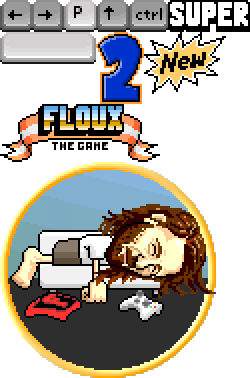
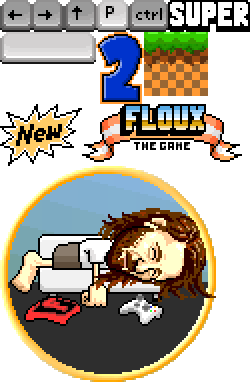
master: add ground on menu

Changed region(s): [[0.0, 0.0, 1.0, 0.9021], [0.0, 0.0582, 0.112, 0.0873], [0.644, 0.9312, 0.7, 0.9603]]

diff --git a/app/js/modules/GameMenu.js b/app/js/modules/GameMenu.js
@@ -54,6 +54,15 @@ menuGame.prototype = {
         this.cursors.up.onUp.add( this.previous, this );
         this.cursors.down.onUp.add( this.next, this );
 
+        // GROUND (like Sonic)
+        this.grounds = this.game.add.group();
+
+        var _image = new Phaser.Image( this.game, 0,0, "menu", "grass.png" );
+        this.ground = new Phaser.TileSprite( this.game, 0, this.game.height+128, this.game.width, _image.height, _image.texture );
+        this.grounds.add( this.ground );
+
+        this.game.add.tween( this.ground ).to( {y: this.game.height-64}, 2000, Phaser.Easing.Cubic.out, true, 0 );
+
         // LOGO
         this.logo = this.game.add.group();
         this.bg = new Phaser.Sprite(this.game, 0,-500, "menu", "couch.png");
@@ -83,7 +92,6 @@ menuGame.prototype = {
         this.game.add.tween( this.new.scale ).to( {x: 1, y: 1}, 600, Phaser.Easing.Back.Out, true, 2700 );
 
         this.game.add.tween( this.two ).to( {alpha: 1, x: 48}, 400, Phaser.Easing.Cubic.In, true, 3350 );
-
 
         // MAIN MENU
         this.buttons = [];
@@ -157,9 +165,7 @@ menuGame.prototype = {
 
         this.returnBtn.input.enabled = false;
 
-        setTimeout( function() {
-            $('#about').trigger('state:created');
-        }, 250);
+        $('#about').trigger('state:created');
     },
 
     /**
@@ -184,7 +190,8 @@ menuGame.prototype = {
     // Phaser.Game.State interface
     update: function()
     {
-
+        //  Scroll the ground
+        this.ground.tilePosition.x -= 5;
     },
 
     /**
@@ -287,6 +294,8 @@ menuGame.prototype = {
         this.logo.y = _margin + 236;
 
         this.ctrlMap.y = this.help.y = this.mainMenu.y = this.logo.y + _margin;
+
+        this.ground.y = this.game.height - 64;
     },
 
     // Phaser.Game.State interface

diff --git a/app/js/build.js b/app/js/build.js
@@ -742,6 +742,15 @@ menuGame.prototype = {
         this.cursors.up.onUp.add(this.previous, this);
         this.cursors.down.onUp.add(this.next, this);
 
+        // GROUND (like Sonic)
+        this.grounds = this.game.add.group();
+
+        var _image = new Phaser.Image(this.game, 0, 0, "menu", "grass.png");
+        this.ground = new Phaser.TileSprite(this.game, 0, this.game.height + 128, this.game.width, _image.height, _image.texture);
+        this.grounds.add(this.ground);
+
+        this.game.add.tween(this.ground).to({ y: this.game.height - 64 }, 2000, Phaser.Easing.Cubic.out, true, 0);
+
         // LOGO
         this.logo = this.game.add.group();
         this.bg = new Phaser.Sprite(this.game, 0, -500, "menu", "couch.png");
@@ -844,9 +853,7 @@ menuGame.prototype = {
 
         this.returnBtn.input.enabled = false;
 
-        setTimeout(function () {
-            $('#about').trigger('state:created');
-        }, 250);
+        $('#about').trigger('state:created');
     },
 
     /**
@@ -867,7 +874,10 @@ menuGame.prototype = {
     },
 
     // Phaser.Game.State interface
-    update: function update() {},
+    update: function update() {
+        //  Scroll the ground
+        this.ground.tilePosition.x -= 5;
+    },
 
     /**
      * Mouse controls
@@ -961,6 +971,8 @@ menuGame.prototype = {
         this.logo.y = _margin + 236;
 
         this.ctrlMap.y = this.help.y = this.mainMenu.y = this.logo.y + _margin;
+
+        this.ground.y = this.game.height - 64;
     },
 
     // Phaser.Game.State interface
